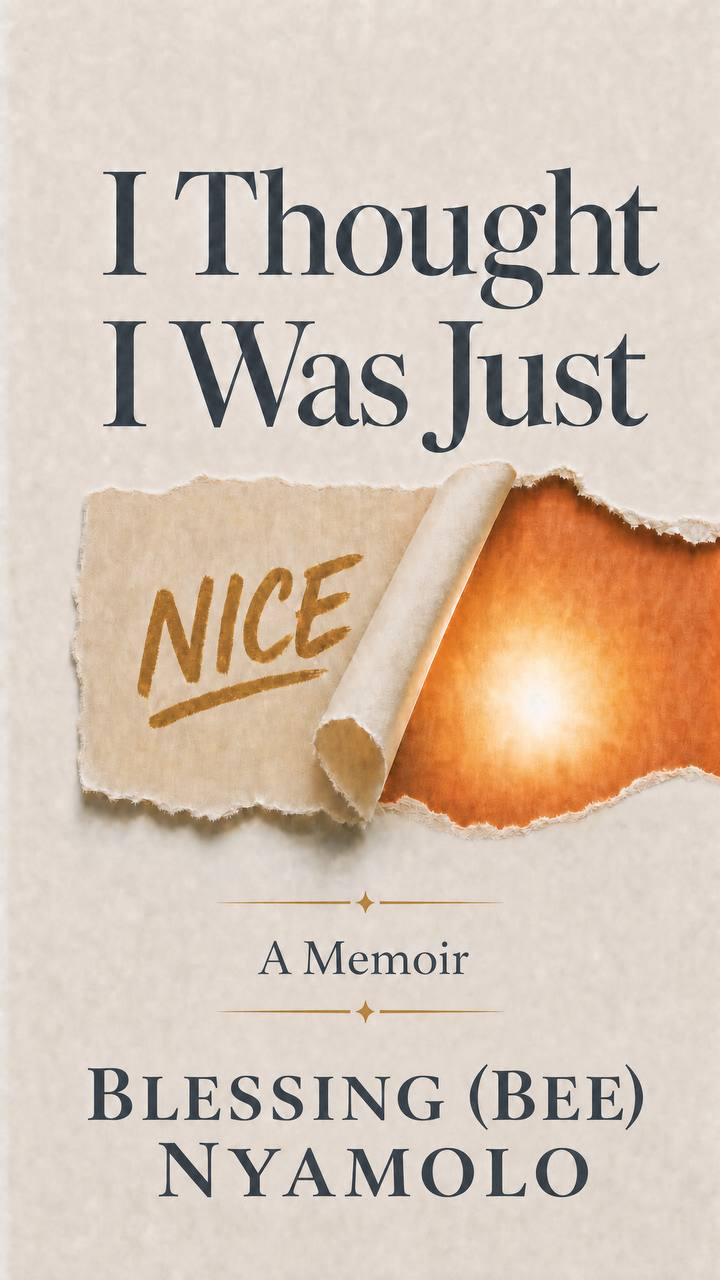
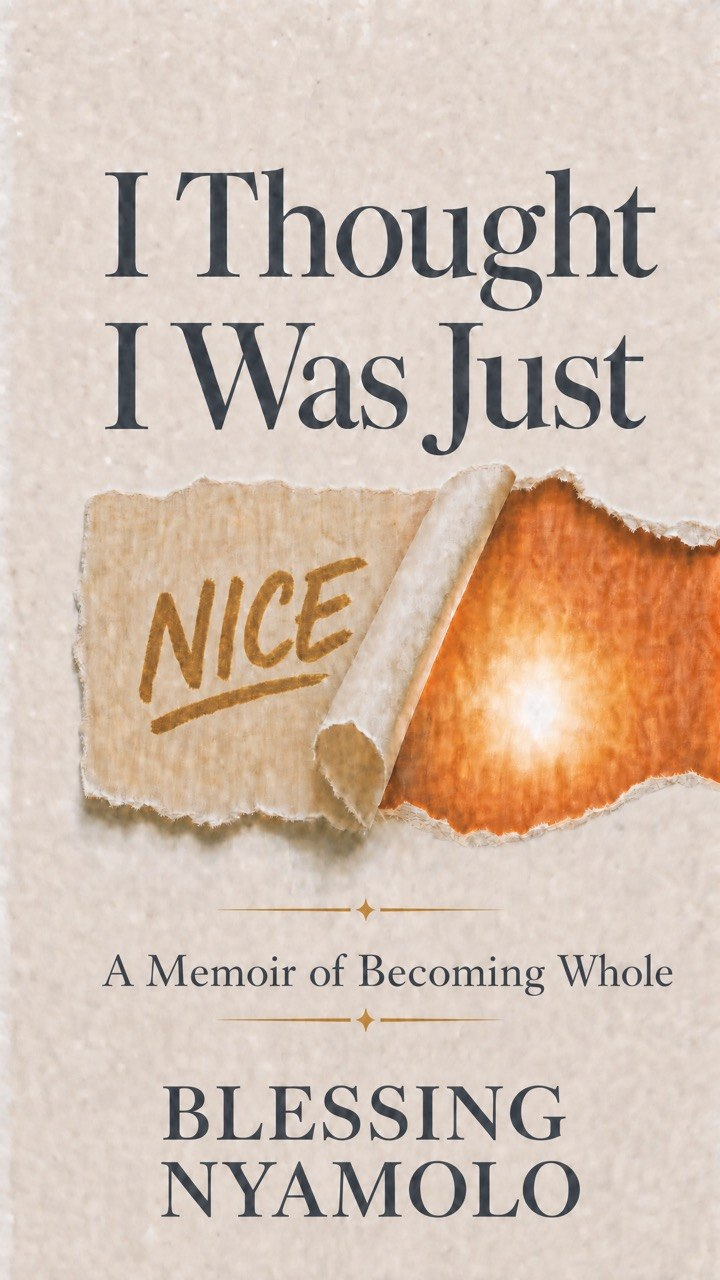
Update book cover, subtitle to 'A Memoir of Becoming Whole', confession framing in About the Book

diff --git a/src/pages/TheBook.tsx b/src/pages/TheBook.tsx
@@ -85,7 +85,7 @@ export default function TheBook() {
                 <div className="absolute -inset-1 bg-gradient-to-br from-honey/20 to-transparent rounded-2xl" />
                 <img
                   src={BOOK_COVER}
-                  alt="I Thought I Was Just Nice: A Memoir by Blessing (Bee) Nyamolo"
+                  alt="I Thought I Was Just Nice: A Memoir of Becoming Whole by Blessing (Bee) Nyamolo"
                   className="relative w-[240px] sm:w-[280px] lg:w-[320px] rounded-xl shadow-2xl shadow-honey/20"
                   style={{ rotate: "-2deg" }}
                 />
@@ -97,7 +97,7 @@ export default function TheBook() {
               <motion.div initial={{ opacity: 0, y: 20 }} animate={{ opacity: 1, y: 0 }} transition={{ duration: 0.6, delay: 0.3 }}>
                 <span className="inline-flex items-center gap-2 px-4 py-1.5 rounded-full bg-honey/15 text-honey-dark text-sm font-medium tracking-wide border border-honey/20 mb-5">
                   <BookOpen className="w-3.5 h-3.5" />
-                  A Memoir
+                  A Memoir of Becoming Whole
                 </span>
               </motion.div>
 
@@ -201,7 +201,7 @@ export default function TheBook() {
                   This memoir traces the moments Bee gave herself away in the name of professionalism and peace, and the slow reckoning that followed. It is honest, specific, and at times uncomfortably familiar.
                 </p>
                 <p>
-                  It is for the woman who has achieved a great deal and felt quietly alone in it.
+                  It is a confession from a woman whose understanding of herself was incomplete — and the quiet, hard-won journey back to who she always was.
                 </p>
               </div>
             </FadeIn>
